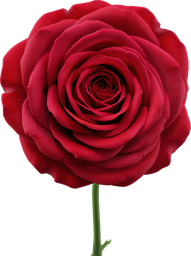
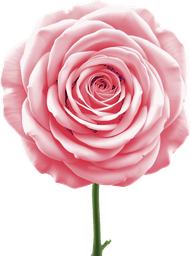
adding rose colourways

diff --git a/src/domain/templates.ts b/src/domain/templates.ts
@@ -66,9 +66,9 @@ export function starterTemplate(): DesignDocument {
     // Focal roses — the heart, low and central
     { varietyId: 'garden-rose', colorwayId: 'blush', x: 297, y: 322, rotation: -14 },
     { varietyId: 'garden-rose', colorwayId: 'blush', x: 303, y: 321, rotation: 12, flipX: true },
-    { varietyId: 'garden-rose', colorwayId: 'cream', x: 300, y: 330, rotation: 0, scale: 1.05 },
+    { varietyId: 'garden-rose', colorwayId: 'coral', x: 300, y: 330, rotation: 0, scale: 1.05 },
     { varietyId: 'garden-rose', colorwayId: 'blush', x: 296, y: 334, rotation: -26 },
-    { varietyId: 'garden-rose', colorwayId: 'cream', x: 298, y: 334, rotation: 24, flipX: true },
+    { varietyId: 'garden-rose', colorwayId: 'blush', x: 298, y: 334, rotation: 24, flipX: true },
     // Filler — floating slightly beyond the outline
     { varietyId: 'gypsophila', colorwayId: 'white', x: 296, y: 318, rotation: -34, scale: 0.9 },
     { varietyId: 'gypsophila', colorwayId: 'white', x: 304, y: 320, rotation: 34, scale: 0.9, flipX: true },

diff --git a/src/data/catalog.ts b/src/data/catalog.ts
@@ -21,7 +21,7 @@ export const FLOWER_CATALOG: FlowerVariety[] = [
     widthMm: 115,
     colorways: [
       { id: 'blush', name: 'Blush', petal: '#e8b4bc', accent: '#d18a97', hue: 350 },
-      { id: 'cream', name: 'Cream', petal: '#f4ecdb', accent: '#e3d3b3', hue: 45, neutral: true },
+      { id: 'coral', name: 'Coral', petal: '#ea9077', accent: '#c96a52', hue: 12 },
       { id: 'burgundy', name: 'Burgundy', petal: '#7c2d3e', accent: '#5c1f2e', hue: 345 },
     ],
     education: {

diff --git a/src/domain/recipe.test.ts b/src/domain/recipe.test.ts
@@ -31,7 +31,7 @@ describe('buildRecipe', () => {
       docWith([
         { varietyId: 'garden-rose', colorwayId: 'blush' },
         { varietyId: 'garden-rose', colorwayId: 'blush' },
-        { varietyId: 'garden-rose', colorwayId: 'cream' },
+        { varietyId: 'garden-rose', colorwayId: 'coral' },
         { varietyId: 'eucalyptus', colorwayId: 'silver' },
       ]),
     )